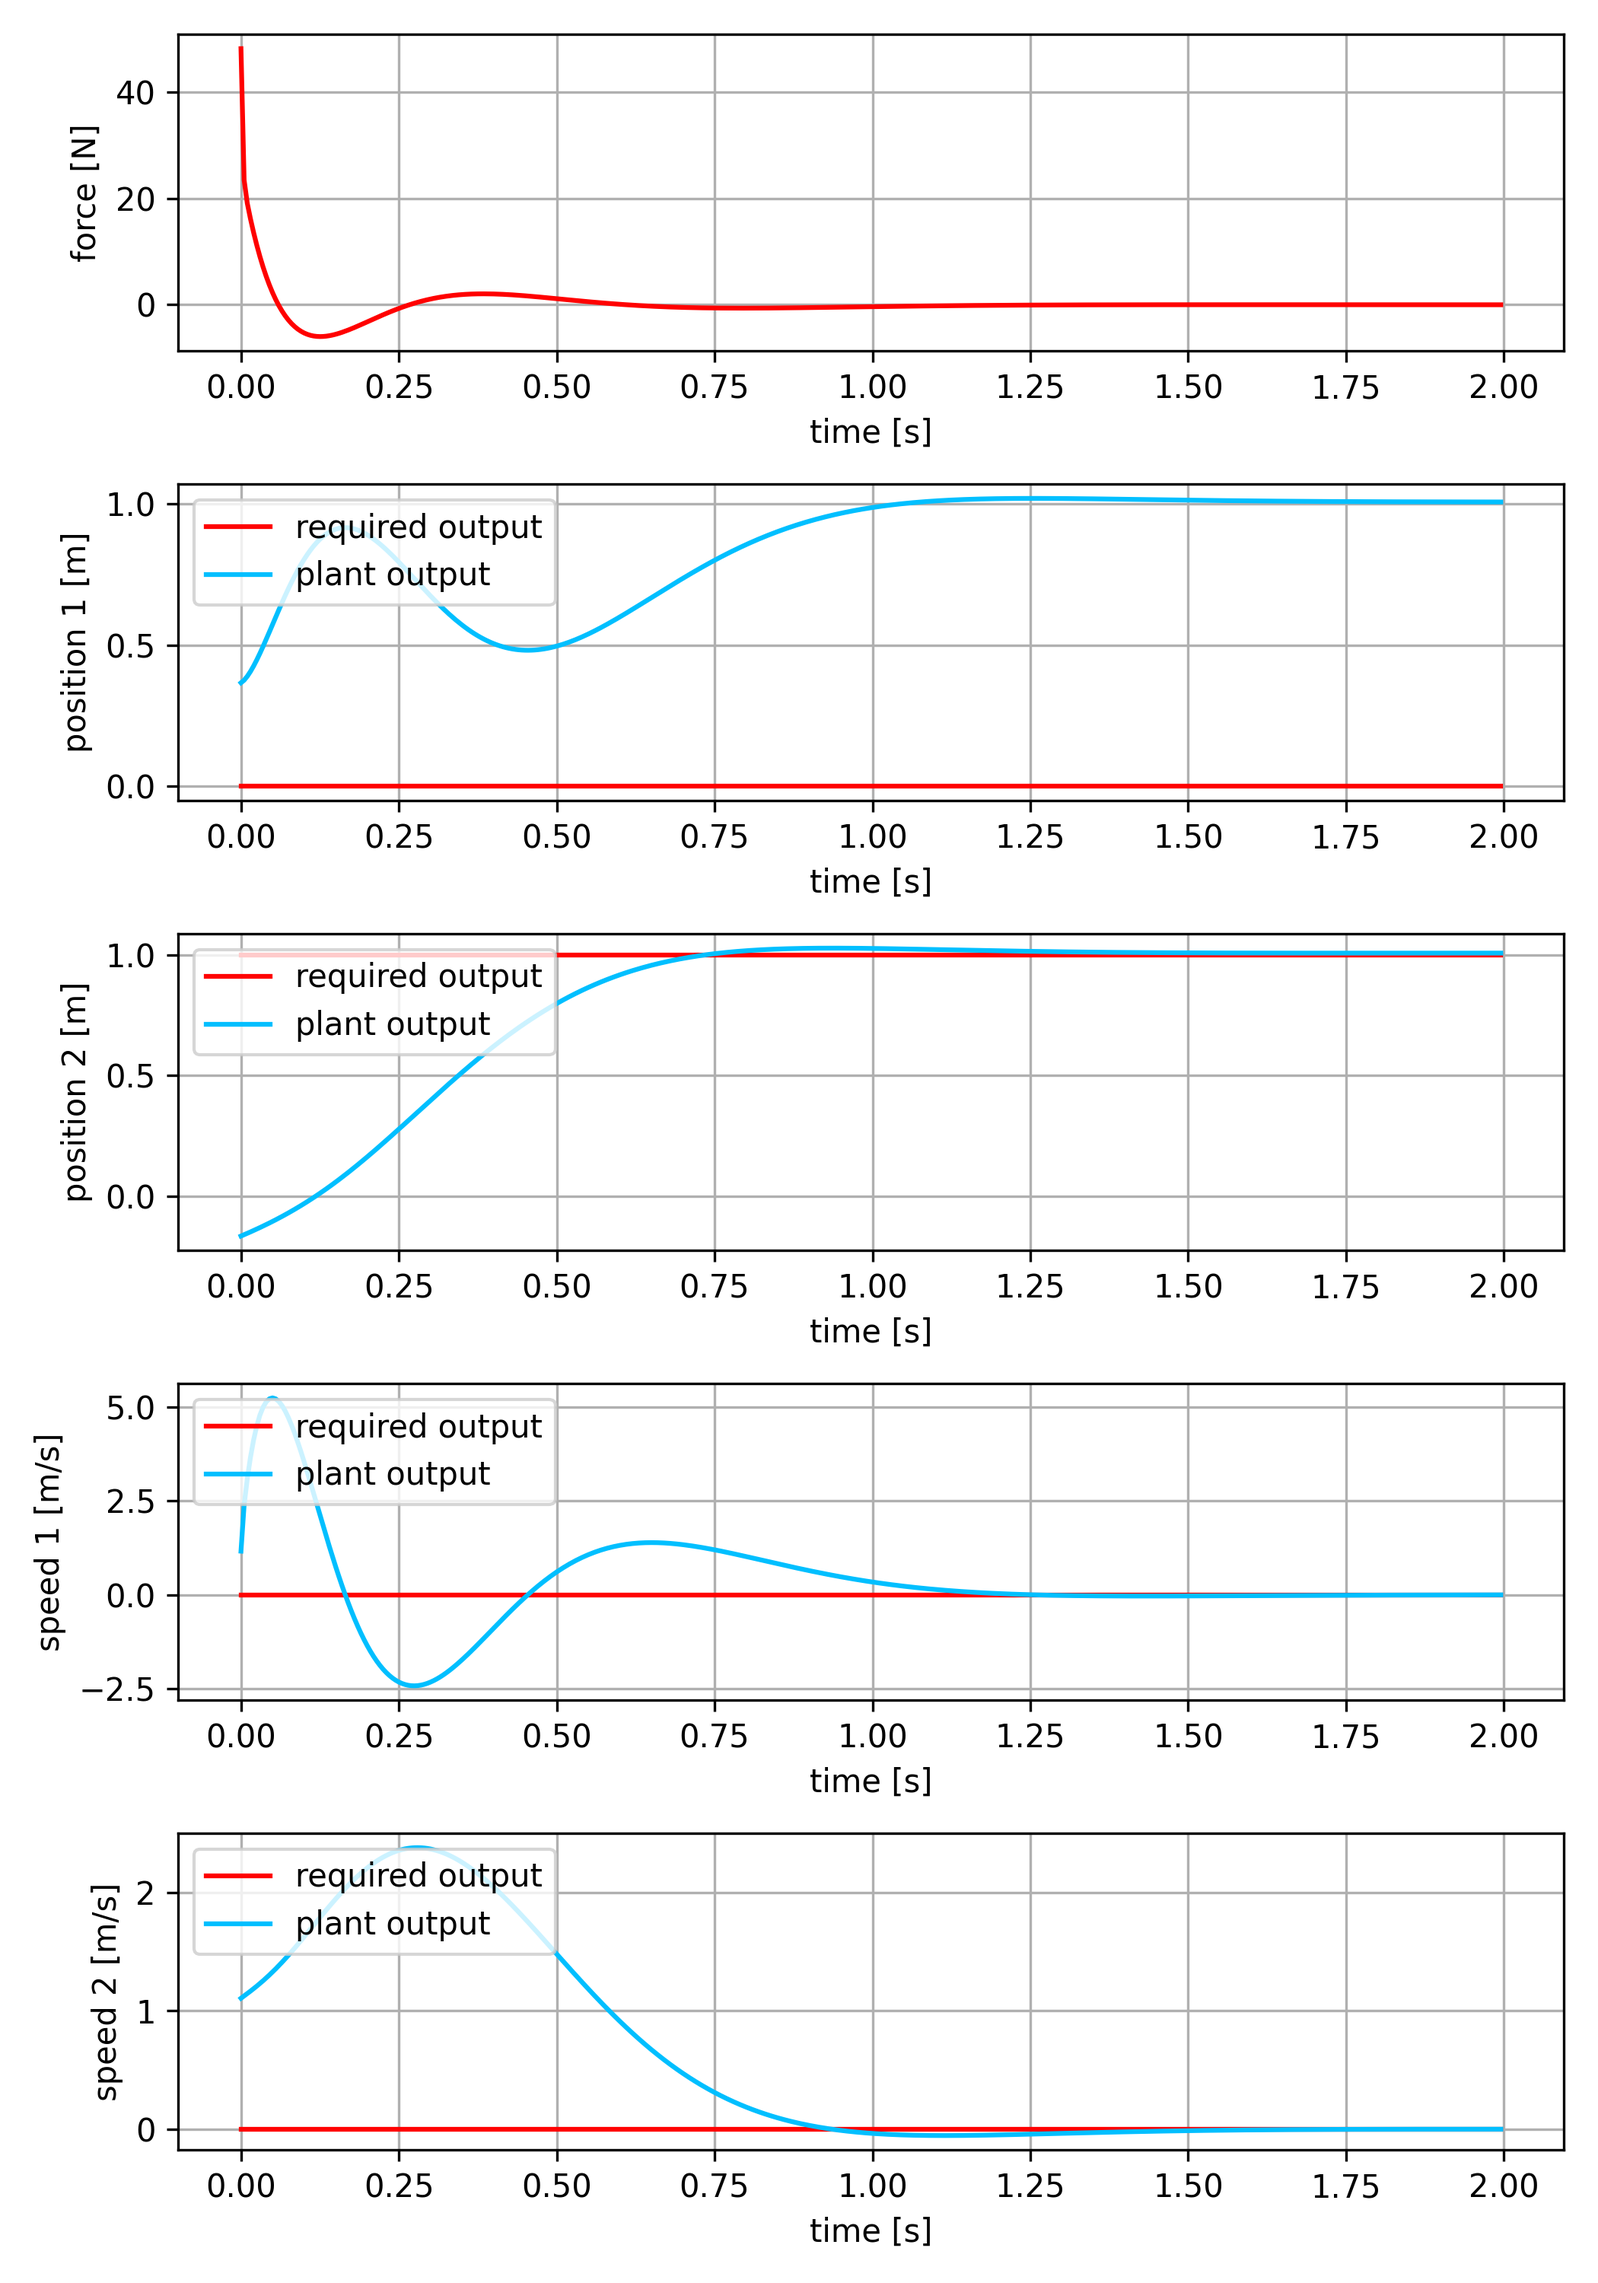
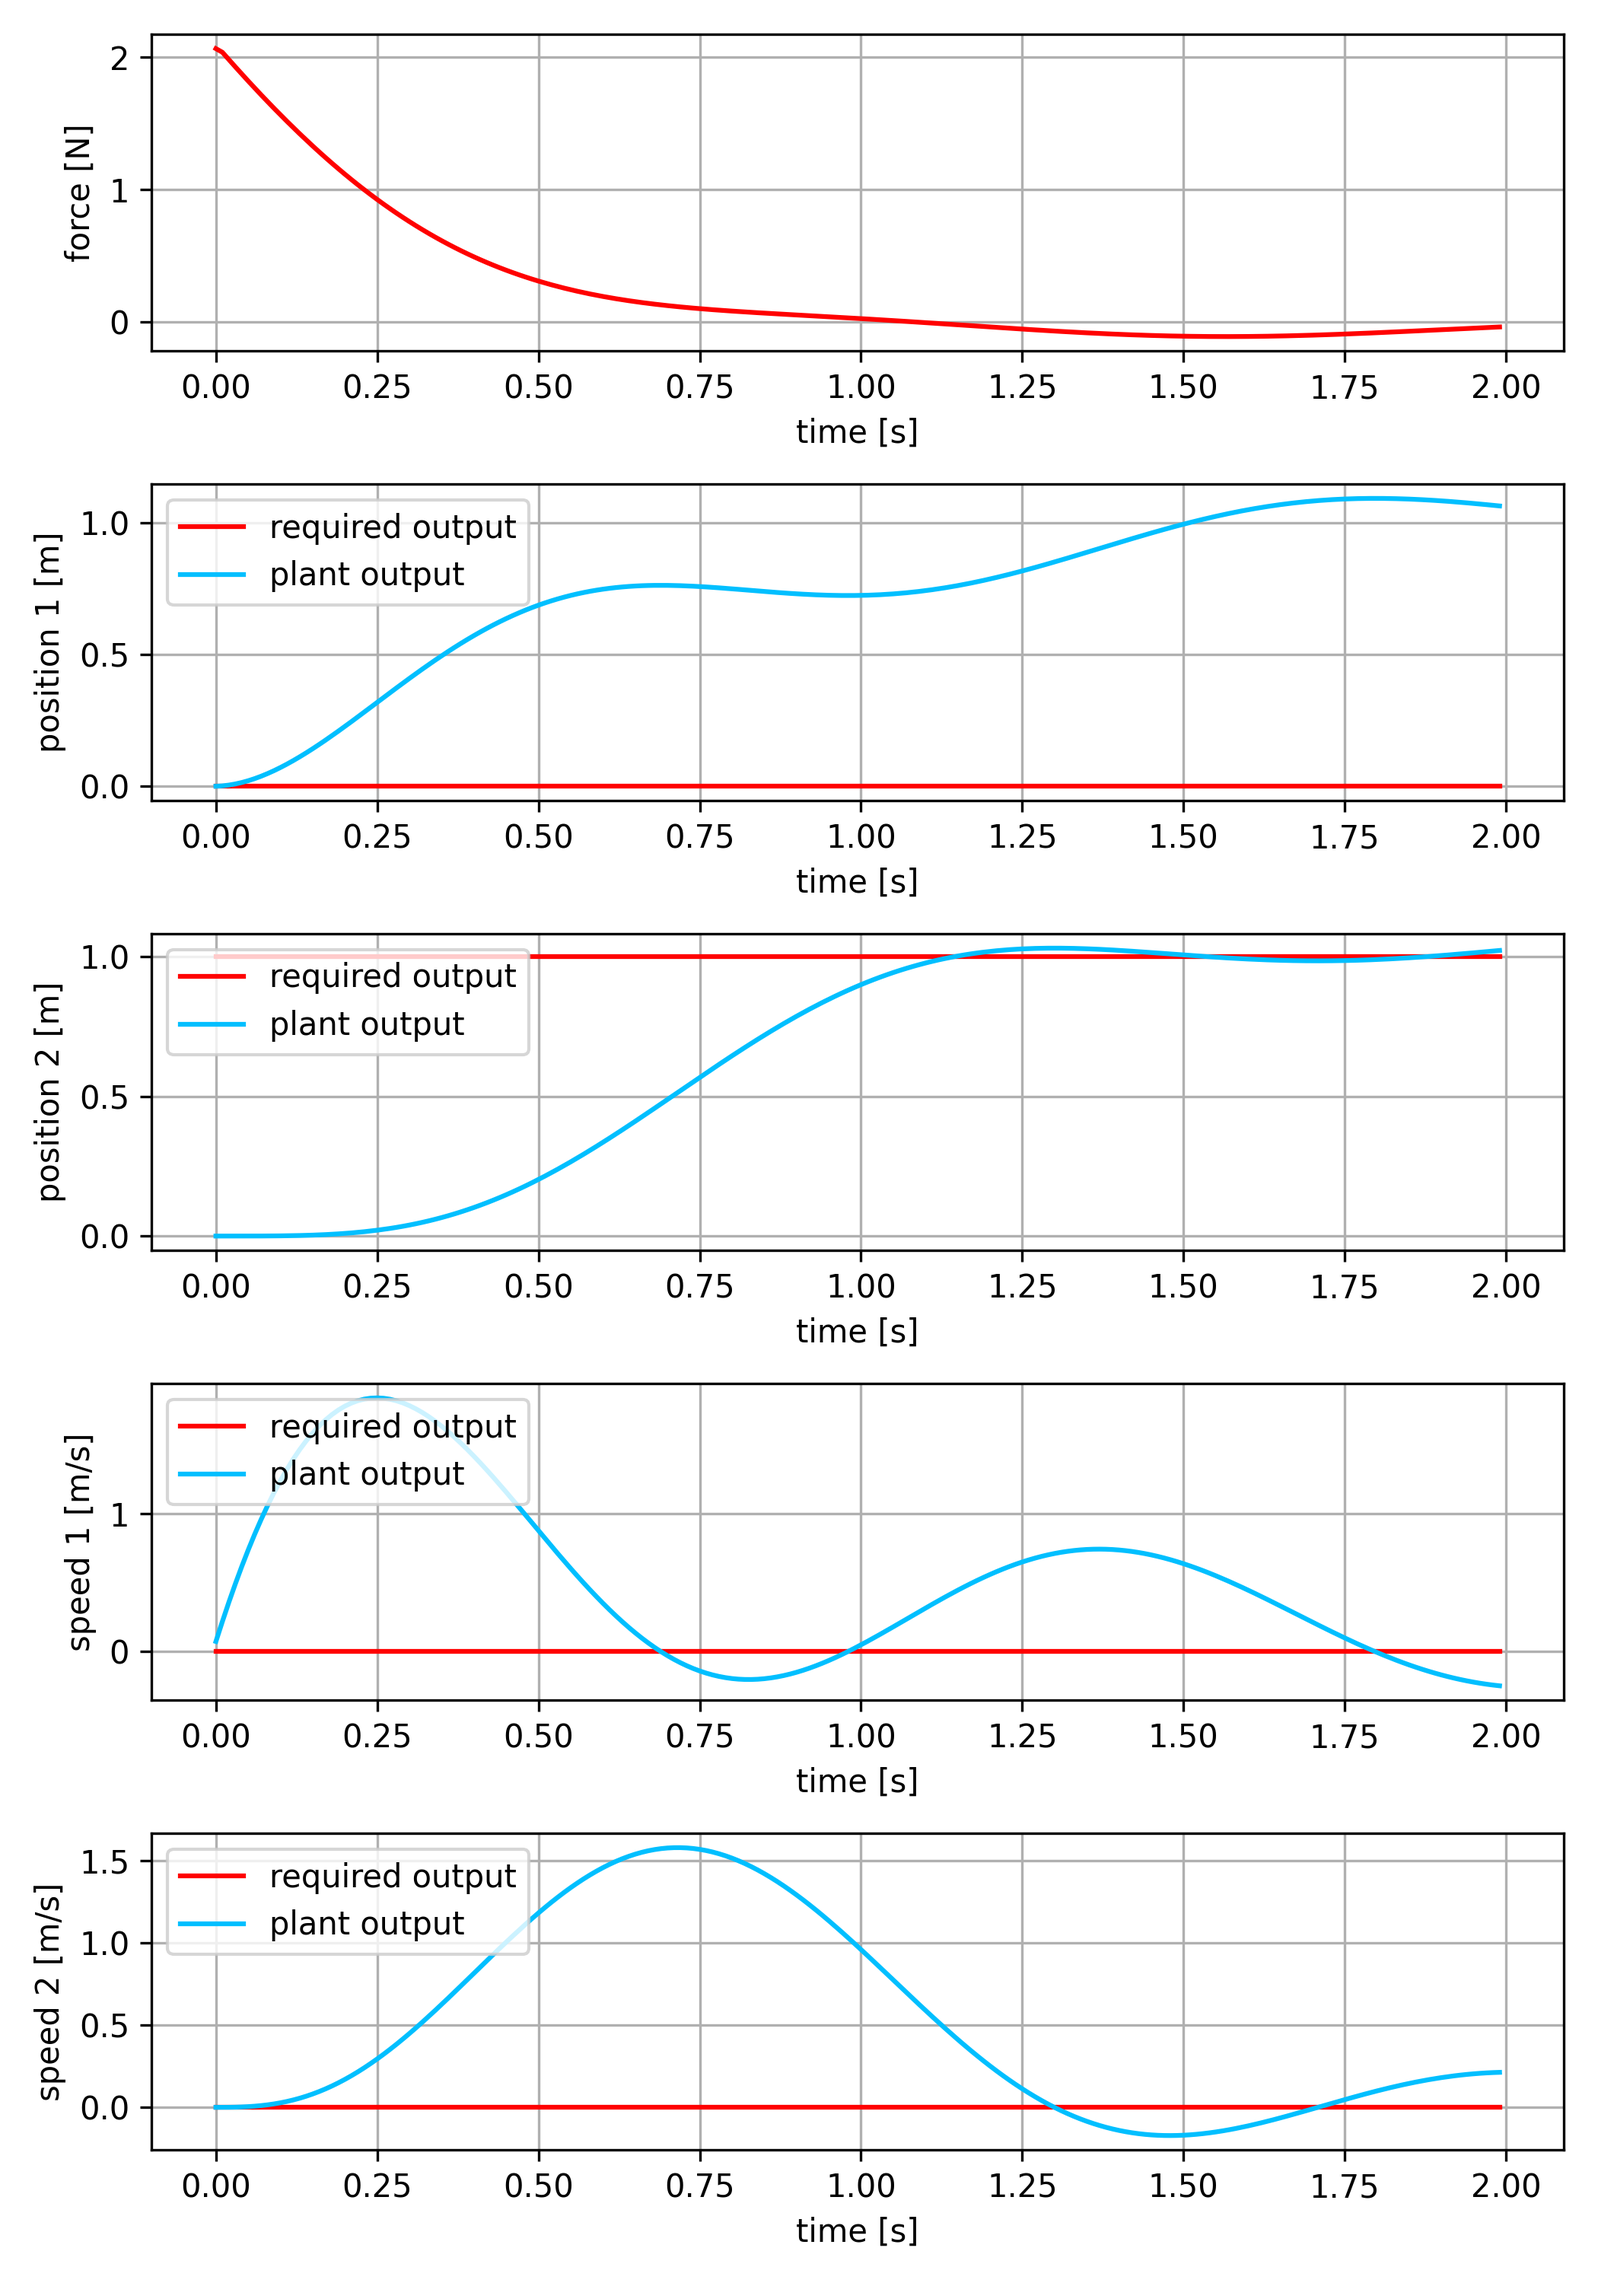
loss updated

diff --git a/LibsControll/libs_plants/balancing_robot.py b/LibsControll/libs_plants/balancing_robot.py
@@ -1,0 +1,108 @@
+import torch
+import numpy
+import cv2
+
+import LibsControll
+
+ 
+class BalancingRobot(torch.nn.Module):
+    def __init__(self):
+        super().__init__()
+
+        r   = 0.04      #wheel radius [m]
+        mr  = 0.18      #wheel mass [kg]
+        jr  = 0.000025  #wheel moment of inertia [kgm^2]
+        fr  = 0.2       #wheel friction coeff [Nrad^-1s^-1]
+
+        l   = 0.08      #length measured from the wheel axis and mass center of the main body [m]
+        mb  = 1.16      #mass of main body
+        jb  = 0.0015    #moment of inertia of main body
+        fb  = 0.002     #main body friction coeff [Nrad^-1s^-1] 
+
+        g   = 9.807     #gravitational acceleration
+
+        self.mat_a = torch.zeros((4, 4))
+        self.mat_b = torch.zeros((4, 1))
+        self.mat_c = torch.zeros((4, 4))
+
+        p = jb*(mb + mr) + mb*mr*l*l
+
+        self.mat_a[0][1] =  1.0
+        
+        self.mat_a[1][2] =  -fr*(jb + mb*l*l)/p
+        self.mat_a[1][3] =  mb*mb*l*l*g/p
+        
+        self.mat_a[2][3] =  1.0
+        
+        self.mat_a[3][1] =  -mb*l*fr/p
+        self.mat_a[3][2] =  mb*g*(mb+mr)/p
+
+
+        self.mat_b[1][0] = (jb + mb*l*l)/p
+        self.mat_b[3][0] = mb*l/p
+
+      
+        self.mat_c[0][0] = 1.0
+        self.mat_c[1][1] = 1.0
+        self.mat_c[2][2] = 1.0 
+        self.mat_c[3][3] = 1.0
+
+        self.plant       = LibsControll.DynamicalSystem(self.mat_a, self.mat_b, self.mat_c)
+
+
+
+    def forward(self, x, u):
+        self.x = x
+        return self.plant.forward(x, u)
+
+    def __repr__(self):
+        return str(self.plant)
+
+
+    def render(self):
+        height    = 256
+        width     = 512
+
+        min_range = -4.0
+        max_range = 4.0
+
+        x1r = float(self.x[0][0].detach().to("cpu").numpy())
+        x2r = float(self.x[0][1].detach().to("cpu").numpy())
+
+        x1 = numpy.clip(x1r, min_range*0.999, max_range*0.999)
+        x2 = numpy.clip(x1r + x2r, min_range*0.999, max_range*0.999)
+
+        #print("rendering ", x1r, x2r)
+
+        x1 = int(width*(x1 - min_range)/(max_range - min_range))
+        x2 = int(width*(x2 - min_range)/(max_range - min_range))
+
+        y1 = height//2
+        y2 = height//2
+        w  = 60
+        h  = 40
+
+
+        image = numpy.zeros((height, width, 3))
+
+
+
+        image = cv2.putText(image, "position 1 = " + str(round(x1r, 2)) + "[m]", (2, 30), cv2.FONT_HERSHEY_SIMPLEX, 0.5, (255, 0, 0), 2, cv2.LINE_AA)
+        image = cv2.putText(image, "position 2 = " + str(round(x2r, 2)) + "[m]", (2, 60), cv2.FONT_HERSHEY_SIMPLEX, 0.5, (0, 0, 255), 2, cv2.LINE_AA)
+
+
+        image = cv2.line(image, (x1, y1), (x2, y2), (255, 255, 255), 2)
+        image = cv2.rectangle(image, (x1 - w//2, y1 - h//2), (x1 + w//2, y1 + h//2), (255, 0, 0), -1)
+        image = cv2.rectangle(image, (x2 - w//2, y2 - h//2), (x2 + w//2, y2 + h//2), (0, 0, 255), -1)
+
+        image = cv2.putText(image, "1", (x1, y1), cv2.FONT_HERSHEY_SIMPLEX, 0.5, (255, 255, 255), 2, cv2.LINE_AA)
+        image = cv2.putText(image, "2", (x2, y2), cv2.FONT_HERSHEY_SIMPLEX, 0.5, (255, 255, 255), 2, cv2.LINE_AA)
+
+        # Displaying the image 
+        cv2.imshow("dynamical system", image) 
+        cv2.waitKey(1)
+
+
+
+
+        

diff --git a/LibsControll/libs_common/fit_controller.py b/LibsControll/libs_common/fit_controller.py
@@ -2,7 +2,7 @@ import torch
 from .signal_source         import *
 from .closed_loop_response  import *
 
-def fit_controller(ControllerC, plant, steps = 200, amplitudes = [0.0, 1.0, 0.0, 0.0], loss_weight = [1.0, 1.0, 1.0, 1.0], x_noise = 0.1, y_noise = 0.0, lr = 1.0):
+def fit_controller(ControllerC, plant, steps = 200, amplitudes = [1.0, 1.0, 1.0, 1.0], loss_weight = [1.0, 1.0, 1.0, 1.0], x_noise = 0.01, y_noise = 0.0, lr = 1.0, dt=0.01):
 
     required_inputs_dim     = plant.mat_c.shape[0]
     system_order_dim        = plant.mat_a.shape[0]
@@ -11,15 +11,16 @@ def fit_controller(ControllerC, plant, steps = 200, amplitudes = [0.0, 1.0, 0.0,
 
     controller  = ControllerC(required_inputs_dim, system_order_dim, plant_inputs_count)
 
-    optimizer   = torch.optim.Adam(controller.parameters(), lr = lr)
-
+    optimizer   = torch.optim.AdamW(controller.parameters(), lr = lr)
 
     trajectory_length   = 400
-    batch_size          = 64
+    batch_size          = 64 
     
-    required_source = SignalSquare(trajectory_length, required_inputs_dim, amplitudes=amplitudes)
-    
-    clr = ClosedLoopResponse(plant, controller)
+    #required_source = SignalSquare(trajectory_length, required_inputs_dim, amplitudes=amplitudes)
+    required_source     = SignalUnitStep(trajectory_length, required_inputs_dim, amplitudes=amplitudes)
+
+
+    clr = ClosedLoopResponse(plant, controller, dt)
 
     for step in range(steps):
         #sample random units-steps
@@ -28,17 +29,21 @@ def fit_controller(ControllerC, plant, steps = 200, amplitudes = [0.0, 1.0, 0.0,
         y_req_trajectory  = torch.from_numpy(y_req_trajectory)
 
         #compute plant output
-        u_trajectory, y_trajectory = clr.step(y_req_trajectory, x_noise, y_noise)
+        u_trajectory, y_trajectory = clr.step(y_req_trajectory, x_noise, y_noise, random_initial_state = 1.0)
 
-        loss_trajectory = 0 
+        loss_trajectory = 0  
+
+
+        decay = 0.995**(y_req_trajectory.shape[0] - torch.arange(y_req_trajectory.shape[0]))
+        decay = decay.unsqueeze(1)
 
         for i in range(len(loss_weight)):
-            loss_trajectory+= loss_weight[i]*((y_req_trajectory[:,:,i] - y_trajectory[:,:,i])**2).mean()
+            loss_trajectory+= loss_weight[i]*(decay*((y_req_trajectory[:,:,i] - y_trajectory[:,:,i])**2)).mean()
 
         loss_controll   = (u_trajectory**2).mean()
 
         optimizer.zero_grad()
-        loss = loss_trajectory + 0.001*loss_controll
+        loss = loss_trajectory + 0.01*loss_controll
         loss.backward()
         optimizer.step()
         

diff --git a/examples/lqc_balance.py b/examples/lqc_balance.py
@@ -2,13 +2,13 @@ import torch
 import LibsControll 
 
 
-dt = 1.0/100.0
+dt = 1.0/200.0
 
 '''
 create example dynamical system, 4th order
 state is : pos1, pos2, vel1, vel2
 '''
-plant       = LibsControll.TwoCarts() 
+plant       = LibsControll.BalancingRobot() 
 
 print(str(plant))
 
@@ -22,7 +22,7 @@ controller   = LibsControll.fit_controller(LibsControll.LQC, plant, steps = 400,
 plot result for step response
 '''
 t_trajectory, y_req_trajectory, u_trajectory, y_trajectory  = LibsControll.step_response(controller, plant, amplitudes=[0, 1, 0, 0], dt=dt)
-LibsControll.plot_controll_output(t_trajectory, u_trajectory, y_req_trajectory, y_trajectory, ["force [N]"], ["position 1 [m]", "position 2 [m]", "speed 1 [m/s]", "speed 2 [m/s]"], "images/carts_step_response.png")
+LibsControll.plot_controll_output(t_trajectory, u_trajectory, y_req_trajectory, y_trajectory, ["force [N]"], ["position 1 [m]", "position 2 [m]", "speed 1 [m/s]", "speed 2 [m/s]"], "images/balancing_robot_step_response.png")
 
 print(str(controller))
 

diff --git a/LibsControll/libs_common/closed_loop_response.py b/LibsControll/libs_common/closed_loop_response.py
@@ -12,7 +12,7 @@ class ClosedLoopResponse:
 
         self.solver      = ODESolverRK4(plant)
 
-    def step(self, input, state_noise = 0.0, observation_noise = 0.0):
+    def step(self, input, state_noise = 0.0, observation_noise = 0.0, random_initial_state = 0.0):
 
         trajectory_length = input.shape[0]
         batch_size        = input.shape[1]
@@ -23,7 +23,7 @@ class ClosedLoopResponse:
 
         #plant state, zero initial conditions
         x_state      = torch.zeros((batch_size, plant_order)).float()
-        x_state+= torch.randn_like(x_state)
+        x_state+= random_initial_state*torch.randn_like(x_state)
         
         #storage for controller output
         u_trajectory  = torch.zeros((trajectory_length, batch_size, plant_inputs_count)).float()

diff --git a/LibsControll/libs_common/controller.py b/LibsControll/libs_common/controller.py
@@ -21,6 +21,15 @@ class LQC(torch.nn.Module):
         super().__init__()
 
         controll_mat        = init_range*torch.randn((required_inputs_dim + system_order_dim, system_inputs_dim)).float()
+
+        '''
+        for i in range(required_inputs_dim):
+            controll_mat[i] = 1.0
+
+        for i in range(system_order_dim):
+            controll_mat[i + required_inputs_dim] = -1.0
+        '''
+
         self.controll_mat   = torch.nn.parameter.Parameter(controll_mat, requires_grad=True)
 
     def __repr__(self):

diff --git a/LibsControll/libs_common/step_response.py b/LibsControll/libs_common/step_response.py
@@ -3,7 +3,7 @@ from .signal_source         import *
 from .closed_loop_response  import *
 
 
-def step_response(controller, plant, amplitudes, trajectory_length = 500, dt = 1.0/200.0):
+def step_response(controller, plant, amplitudes, trajectory_length = 200, dt = 1.0/200.0):
 
    
     required_inputs_dim     = plant.mat_c.shape[0]

diff --git a/LibsControll/libs_plants/__init__.py b/LibsControll/libs_plants/__init__.py
@@ -1,1 +1,2 @@
-from .two_carts import *
+from .two_carts         import *
+from .balancing_robot   import *

diff --git a/README.md b/README.md
@@ -74,13 +74,13 @@ while True:
 ### controller matrix
 
 ```
-controll_mat =
+controll_mat=
+ -0.0000 
+  2.0659 
   0.0000 
- 48.0974 
- -0.0000 
- -0.0000 
--31.3276 
--16.4335 
- -3.0607 
--11.1417 
+  0.0000 
+ -1.1050 
+ -0.9079 
+ -0.3687 
+ -0.4270 
 ```
